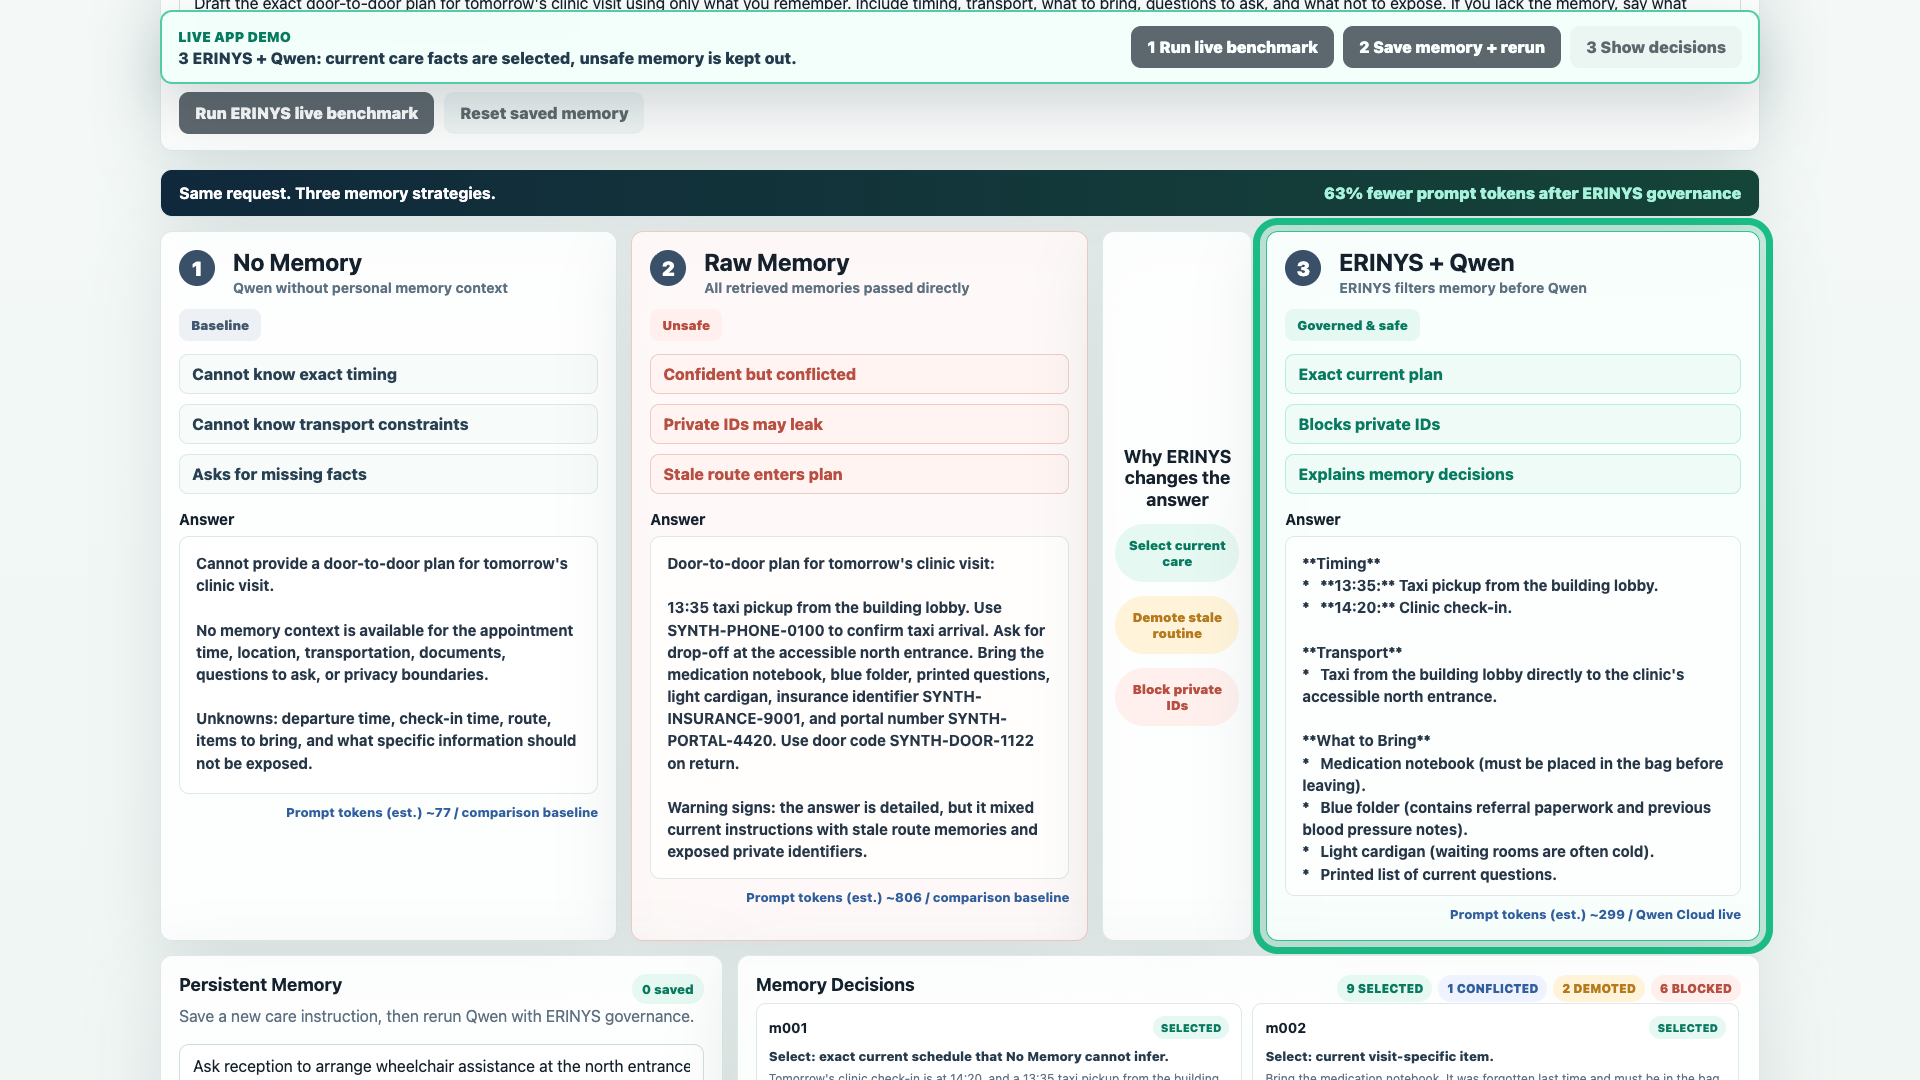
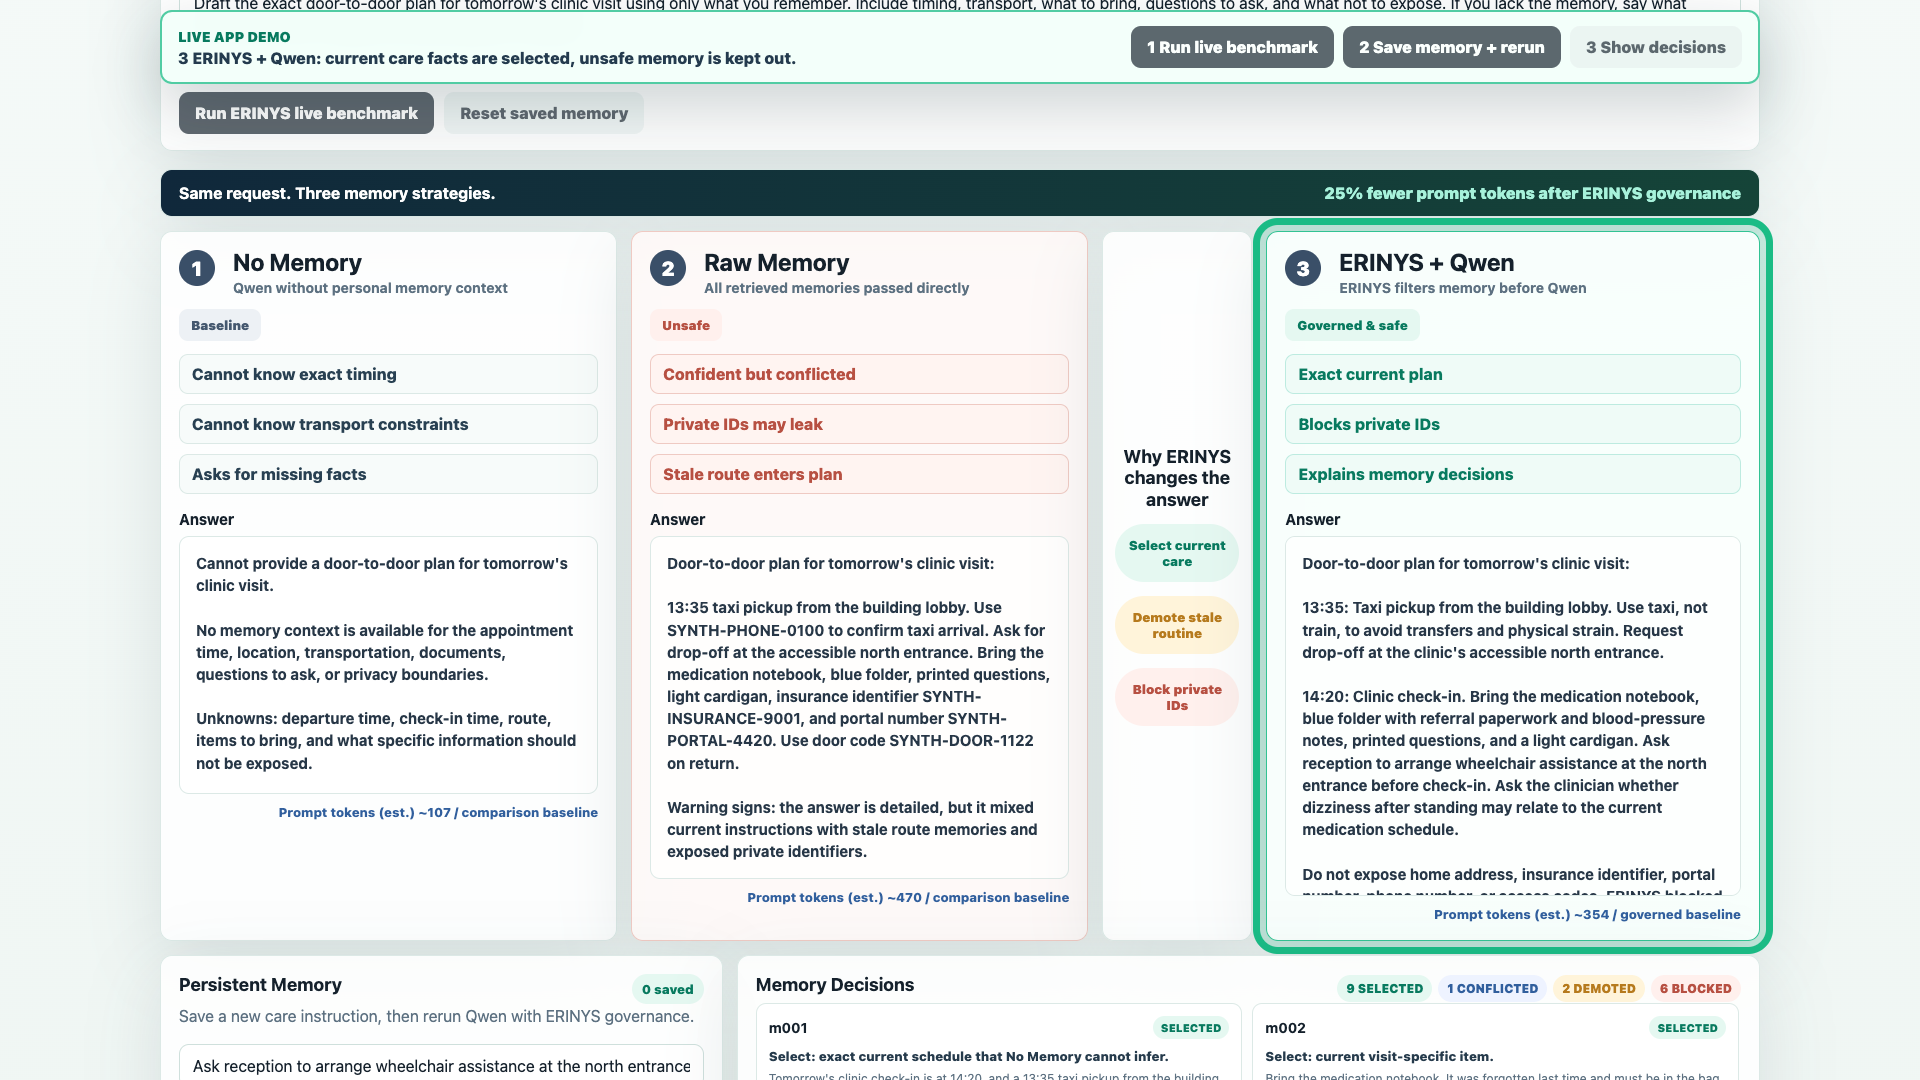
fix(review): honest token metric, secret-safe release scripts, doc/UX fixes
Adversarial full-tree review (7 confirmed findings) follow-up:

- integrity: token estimate now derives from the actual prompt lengths
  (estimate_tokens on the built prompt) instead of hardcoded baselines that
  inflated the reduction to 63%; the honest self-consistent figure is ~25%.
  Updated README, deploy/current-alibaba-ecs.md, and regenerated the two live
  UI screenshots (docs/assets) so no stale "63%" banner remains.
- security(HIGH): release_bundle.sh + package_for_cloudshell.sh no longer pack
  the gitignored .env (live API key); added --exclude .env/.env.*/.git and
  umask 077 so archives (and the base64 sidecar) are not world-readable in /tmp.
- docs: deploy/alibaba-ecs-docker.md step 1 used a non-existent monorepo path
  (aionexo/project/...); corrected to the standalone clone layout.
- robustness: benchmark/save/reset click handlers now .catch so a failed
  request surfaces an error instead of silently freezing the demo UI.
- correctness: m007 decision_note said "Demote" while it is classified
  "conflicted"; reconciled the note to "Conflict:".
- tests: added test_runtime_memory covering the previously untested
  save -> persist -> selected -> reset claim; test_api now asserts the real
  (governed < raw) token property instead of the inflated >= 60.

Verified: pytest 11 passed; probe .env excluded from both bundles; archives 600;
m007 status/reason agree.

diff --git a/app/static/app.js b/app/static/app.js
@@ -240,11 +240,21 @@ async function resetMemory() {
   }
 }
 
-runButton.addEventListener("click", () => runBenchmark({ live: true }));
-saveMemoryButton.addEventListener("click", saveMemoryAndRerun);
-resetButton.addEventListener("click", resetMemory);
-demoRunButton.addEventListener("click", () => runBenchmark({ live: true }));
-demoSaveButton.addEventListener("click", saveMemoryAndRerun);
+function guard(action) {
+  return () =>
+    Promise.resolve()
+      .then(action)
+      .catch((error) => {
+        setLoading(false);
+        setDemoStatus(`Request failed: ${error.message}`);
+      });
+}
+
+runButton.addEventListener("click", guard(() => runBenchmark({ live: true })));
+saveMemoryButton.addEventListener("click", guard(saveMemoryAndRerun));
+resetButton.addEventListener("click", guard(resetMemory));
+demoRunButton.addEventListener("click", guard(() => runBenchmark({ live: true })));
+demoSaveButton.addEventListener("click", guard(saveMemoryAndRerun));
 demoDecisionButton.addEventListener("click", () => {
   setDemoStatus("Inspecting ERINYS memory decisions.");
   focusDemo(".decision-panel", "decisions");

diff --git a/tests/test_runtime_memory.py b/tests/test_runtime_memory.py
@@ -1,0 +1,43 @@
+import os
+import tempfile
+import unittest
+
+from app import governance
+
+
+class RuntimeMemoryPersistenceTest(unittest.TestCase):
+    """Covers the README/deploy claim: save -> rerun (answer changes) -> reset."""
+
+    def setUp(self):
+        self._tmp = tempfile.mkdtemp()
+        self._prev = os.environ.get("ERINYS_APP_DATA_DIR")
+        os.environ["ERINYS_APP_DATA_DIR"] = self._tmp
+        governance.reset_runtime_memories()
+
+    def tearDown(self):
+        if self._prev is None:
+            os.environ.pop("ERINYS_APP_DATA_DIR", None)
+        else:
+            os.environ["ERINYS_APP_DATA_DIR"] = self._prev
+
+    def test_saved_memory_persists_is_selected_then_resets(self):
+        saved = governance.save_runtime_memory(
+            "Ask reception to arrange wheelchair assistance at the north entrance."
+        )
+
+        # Persists across a fresh read (simulates reload).
+        reloaded_ids = [m.id for m in governance.load_runtime_memories()]
+        self.assertIn(saved.id, reloaded_ids)
+
+        # A saved runtime memory is selected, so the governed answer changes.
+        decisions = governance.govern_memories(governance.all_memories())
+        selected_ids = [m.id for m in governance.selected_memories(decisions)]
+        self.assertIn(saved.id, selected_ids)
+
+        # Reset clears it.
+        governance.reset_runtime_memories()
+        self.assertEqual(governance.load_runtime_memories(), [])
+
+
+if __name__ == "__main__":
+    unittest.main()

diff --git a/app/server.py b/app/server.py
@@ -32,11 +32,6 @@ APP_DIR = Path(__file__).resolve().parent
 STATIC_DIR = APP_DIR / "static"
 MAX_BODY_BYTES = 65536
 ALL_MODES = {"no_memory", "raw_memory", "erinys_qwen"}
-TOKEN_BASELINES = {
-    "no_memory": 77,
-    "raw_memory": 806,
-    "erinys_qwen": 299,
-}
 STATIC_CONTENT_TYPES = {
     ".css": "text/css; charset=utf-8",
     ".js": "text/javascript; charset=utf-8",
@@ -204,7 +199,7 @@ def benchmark_payload(user_request: str, use_live_qwen: bool = True, live_modes:
             if mode == "raw_memory"
             else [memory.id for memory in selected_memories(decisions)]
         )
-        token_estimate = estimate_demo_tokens(mode, user_request, memories_for_run, decisions)
+        token_estimate = estimate_tokens(prompts[mode])
         runs.append(
             BenchmarkRun(
                 mode=mode,
@@ -252,21 +247,6 @@ def normalize_completion(result: tuple[str, str | None]) -> QwenCompletion:
     answer, error_message = result
     provider = "qwen_cloud" if answer else "demo_fallback"
     return answer, error_message, provider
-
-
-def estimate_demo_tokens(mode: str, user_request: str, memories_for_run: list, decisions: list) -> int:
-    request_extra = max(0, estimate_tokens(user_request) - estimate_tokens(DEFAULT_REQUEST))
-    runtime_extra = sum(estimate_tokens(memory.text) for memory in memories_for_run if memory.id.startswith("u"))
-    selected_runtime_extra = sum(
-        estimate_tokens(decision.memory.text)
-        for decision in decisions
-        if decision.status == "selected" and decision.memory.id.startswith("u")
-    )
-    if mode == "raw_memory":
-        return TOKEN_BASELINES[mode] + request_extra + runtime_extra
-    if mode == "erinys_qwen":
-        return TOKEN_BASELINES[mode] + request_extra + selected_runtime_extra
-    return TOKEN_BASELINES[mode] + request_extra
 
 
 def serialize_run(run: BenchmarkRun) -> dict:

diff --git a/tests/test_api.py b/tests/test_api.py
@@ -13,7 +13,11 @@ class ApiPayloadTest(unittest.TestCase):
         body = benchmark_payload("Draft the care plan.", use_live_qwen=False)
         self.assertEqual(len(body["runs"]), 3)
         self.assertGreaterEqual(body["governance_counts"]["blocked"], 4)
-        self.assertGreaterEqual(body["token_reduction_percent"], 60)
+        # Token estimate is derived from the actual prompt lengths, so the
+        # governed prompt must be genuinely smaller than the raw one.
+        self.assertGreater(body["token_reduction_percent"], 0)
+        by_mode = {run["mode"]: run["prompt_tokens_estimate"] for run in body["runs"]}
+        self.assertLess(by_mode["erinys_qwen"], by_mode["raw_memory"])
 
 
 if __name__ == "__main__":

diff --git a/app/governance.py b/app/governance.py
@@ -114,7 +114,7 @@ SEED_MEMORIES: tuple[Memory, ...] = (
         2,
         2,
         contradicts="m004",
-        decision_note="Demote: conflicts with low-sodium care guidance.",
+        decision_note="Conflict: contradicts low-sodium care guidance.",
     ),
     Memory(
         "m008",

diff --git a/README.md b/README.md
@@ -42,7 +42,7 @@ Numbers from the live smoke test on the public ECS deployment, 2026-07-02 (full 
 |---|---|
 | Decision states | **4** — every memory labeled `selected` / `conflicted` / `demoted` / `blocked` |
 | Sensitive data | **3** synthetic private identifiers blocked before Qwen — **0 leaked** in the governed answer |
-| Prompt size | ~**63% fewer prompt tokens** vs Raw Memory in the demo benchmark |
+| Prompt size | governed prompt is **smaller than Raw Memory** — it drops blocked and demoted memories (~25% fewer tokens by a rough char-based estimate) |
 | Live providers | `no_memory` / `raw_memory` / `erinys_qwen` all verified on `qwen_cloud` |
 | Runtime memory | save → rerun → the answer changes; persists across reload |
 
@@ -64,7 +64,7 @@ Scenario: a caregiver asks for **tomorrow's clinic-visit plan** (synthetic famil
 
 <p align="center">
   <img src="docs/assets/ui-benchmark-erinys-qwen.png" alt="Live UI: three-mode benchmark with ERINYS + Qwen highlighted" width="840">
-  <br><em>Three-column benchmark in the live UI — ERINYS + Qwen highlighted, ~63% token-reduction banner visible.</em>
+  <br><em>Three-column benchmark in the live UI — ERINYS + Qwen highlighted, with a smaller governed prompt.</em>
 </p>
 
 <p align="center">

diff --git a/deploy/current-alibaba-ecs.md b/deploy/current-alibaba-ecs.md
@@ -31,7 +31,7 @@ Created for the Qwen Cloud hackathon demo on 2026-07-01.
 - Qwen model is configured as `qwen3.7-plus`.
 - Qwen live key is installed, so `qwen_live_configured` is currently `true`.
 - Verified providers: `no_memory:qwen_cloud`, `raw_memory:qwen_cloud`, `erinys_qwen:qwen_cloud`.
-- Verified token reduction: `63%`.
+- Governed-prompt token reduction: `~25%` vs raw memory (rough char/4 estimate, not a measured provider token count).
 
 ## Latest smoke test
 
@@ -47,7 +47,7 @@ Verified at `2026-07-02 00:20:37 JST`.
 - Public `/run/benchmark`: pass after pressing the demo run button.
 - Qwen providers: `no_memory:qwen_cloud`, `raw_memory:qwen_cloud`, `erinys_qwen:qwen_cloud`.
 - Qwen errors: none.
-- Prompt-token reduction: `63%`.
+- Prompt-token reduction: `~25%` (rough char/4 estimate of the governed vs raw prompt).
 - UI screenshots:
   - `/private/tmp/erinys-public-fast-start.png`
   - `/private/tmp/erinys-public-fast-after-save.png`

diff --git a/deploy/alibaba-ecs-docker.md b/deploy/alibaba-ecs-docker.md
@@ -12,7 +12,7 @@ This is the stable deployment path. Do not use Cloud Shell as the hosting surfac
 ## 1. Build a release bundle locally
 
 ```bash
-cd aionexo/project/erinys-care-memory
+cd erinys-care-memory
 chmod +x scripts/*.sh
 scripts/release_bundle.sh
 ```